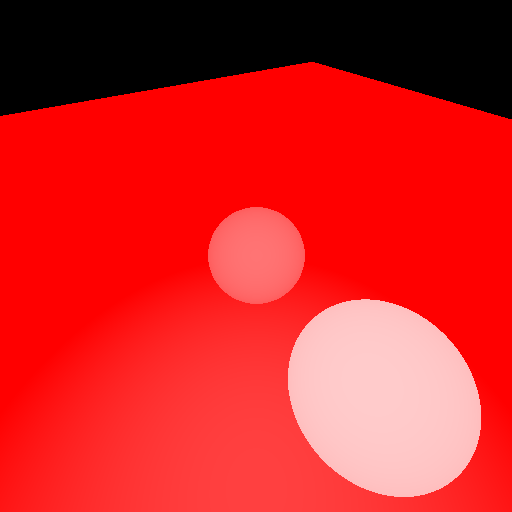
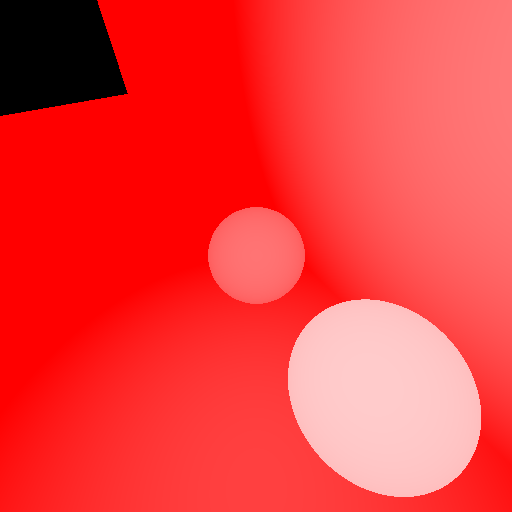
删除在测试Polygon渲染中用到的Scene对象，直接使用Polygon对象并且将包围盒也渲染出来

diff --git a/ForCommonClasses/ForCommonClasses.cpp b/ForCommonClasses/ForCommonClasses.cpp
@@ -1069,40 +1069,22 @@ TEST_MODULE_START
 #pragma region hit with polygon in scene
 	TEST_UNIT_START("hit with polygon in scene")
 		using namespace CommonClass;
-		
-		Scene testScene;
+
 		const Types::F32 borderLength = 3.0f;
 
-		/*auto sph1 = std::make_unique<Sphere>(vector3(0.0f, 0.0f, 0.0f), 1.0f);
-		auto sph2 = std::make_unique<Sphere>(vector3(3.0f, 2.0f, 1.0f), 0.6f);
-
-		auto tri1 = std::make_unique<Triangle>(
-			vector3(-borderLength, -2.0f, -borderLength),
-			vector3(-borderLength, -2.0f, borderLength),
-			vector3(+borderLength, -2.0f, borderLength));
-		auto tri2 = std::make_unique<Triangle>(
-			vector3(-borderLength, -2.0f, -borderLength),
-			vector3(+borderLength, -2.0f, +borderLength),
-			vector3(+borderLength, -2.0f, -borderLength));*/
-
 		auto poly = std::make_unique<Polygon>(
-			vector3(-borderLength, -borderLength, -2.0f),
-			vector3(-borderLength, borderLength, -2.0f),
-			vector3(+borderLength, borderLength, -2.0f)
+			vector3(-borderLength, -borderLength, +2.0f),
+			vector3(-borderLength, borderLength, -3.0f),
+			vector3(+borderLength, borderLength, -1.0f)
 			);
 
-		poly->AddPoint(vector3(borderLength * 0.5f, -borderLength * 0.5f, -2.0f));
+		poly->AddPoint(vector3(borderLength * 0.5f, -borderLength * 1.5f, -2.0f));
 
-		/*testScene.Add(std::move(sph1));
-		testScene.Add(std::move(sph2));
-		testScene.Add(std::move(tri1));
-		testScene.Add(std::move(tri2));*/
-		testScene.Add(std::move(poly));
-
-		RGBA backgroundColor(RGBA::BLACK);
+		RGBA backgroundColor(RGBA::GREEN);
+		RGBA hitBBoxColor(RGBA::BLACK);
 		RGBA hitColor(RGBA::RED);
 
-		vector3 camPosition = vector3(0.0f, 0.0f, 4.0f);
+		vector3 camPosition = vector3(4.0f, 8.0f, 8.0f);
 		vector3 camTarget = vector3(0.0f, 0.0f, 0.0f);
 		vector3 camLookUp = vector3(0.0f, 1.0f, 0.0f);
 
@@ -1121,23 +1103,31 @@ TEST_MODULE_START
 			{
 				Ray ray = camera.GetRay(i, j);
 
-				BREAK_POINT_IF(i == 278 && j == 192);
+				//BREAK_POINT_IF(i == 278 && j == 192);
 				//BREAK_POINT_IF(i == 185 && j == 195);
 
 				// try triangle
-				if (testScene.Hit(ray, 0.0f, 1000.0f, &hitRec))
+				if (poly->BoundingBox().Hit(ray, 0.0f, 1000.f, &hitRec))
 				{
-					//hitPixel.SetChannel<RGBA::R>((hitRec.m_hitT / 3.8f));
-					//hitPixel.SetChannel<RGBA::G>((hitRec.m_hitT / 3.8f));
-					//hitPixel.SetChannel<RGBA::B>((hitRec.m_hitT / 3.8f));
-					hitColor.SetChannel<RGBA::A>(hitRec.m_hitT / 4.0f);
+					if (poly->Hit(ray, 0.0f, 1000.0f, &hitRec))
+					{
+						//hitPixel.SetChannel<RGBA::R>((hitRec.m_hitT / 3.8f));
+						//hitPixel.SetChannel<RGBA::G>((hitRec.m_hitT / 3.8f));
+						//hitPixel.SetChannel<RGBA::B>((hitRec.m_hitT / 3.8f));
+						hitColor.SetChannel<RGBA::A>(hitRec.m_hitT / 4.0f);
 
-					camera.IncomeLight(i, j, hitColor);
+						camera.IncomeLight(i, j, hitColor);
+					}
+					else
+					{
+						camera.IncomeLight(i, j, hitBBoxColor);
+					}
 				}
 				else
 				{
 					camera.IncomeLight(i, j, backgroundColor);
 				}
+				
 			}
 		}
 
